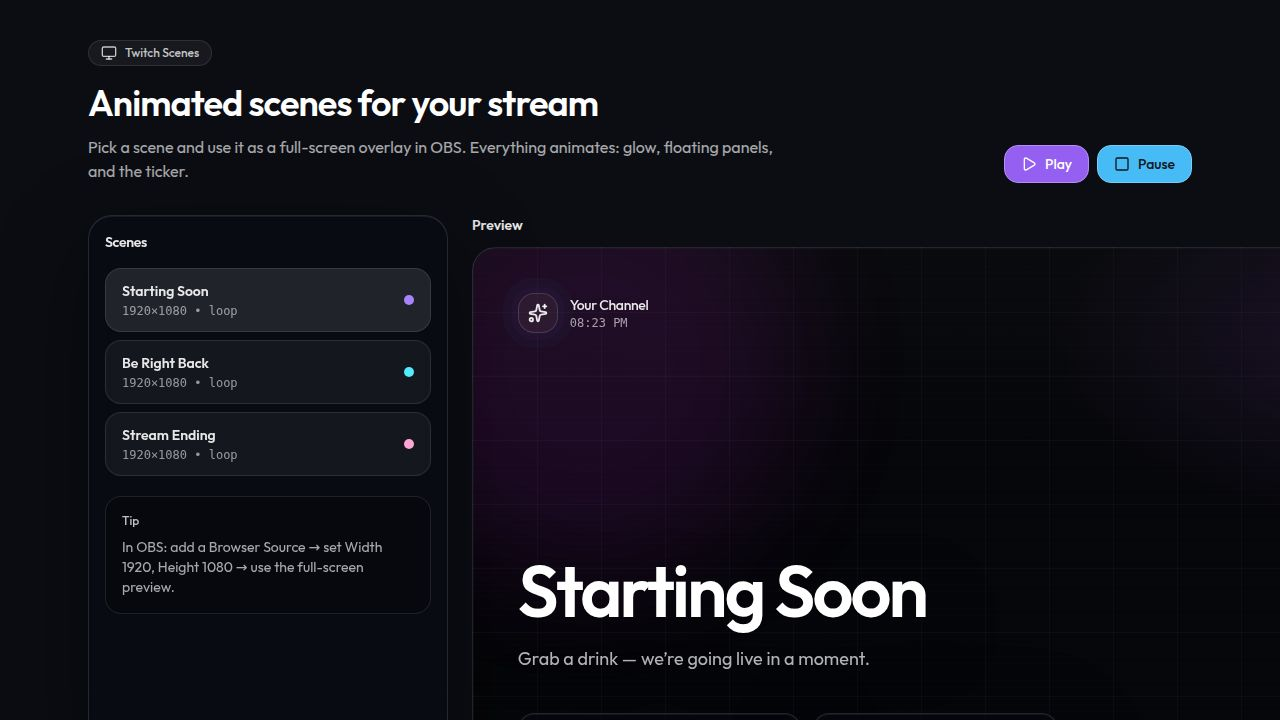
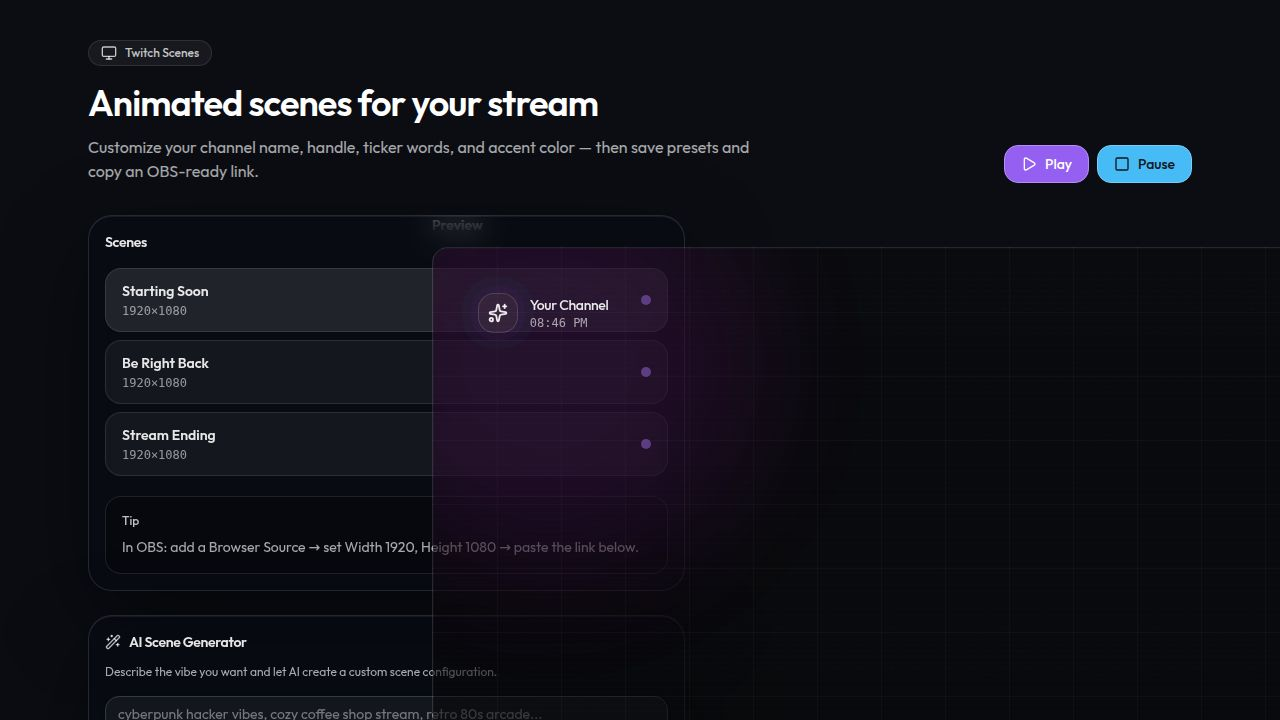
Adjust layout to place scene preview on the right side of the screen
Updates the layout of the Twitch scenes page, moving the scene preview to the right column and adjusting its aspect ratio for better fit within the viewport.

Replit-Commit-Author: Agent
Replit-Commit-Session-Id: 56fff500-5d09-468d-a717-76d6eb35c17c
Replit-Commit-Checkpoint-Type: full_checkpoint
Replit-Commit-Event-Id: 9917d517-9f97-4eb1-bc63-98d4bc2abc6e
Replit-Commit-Screenshot-Url: https://storage.googleapis.com/screenshot-production-us-central1/32f7a202-9c71-4f03-9581-55fa6627d0f5/56fff500-5d09-468d-a717-76d6eb35c17c/VY9jwgc
Replit-Helium-Checkpoint-Created: true

diff --git a/client/src/pages/twitch-scenes.tsx b/client/src/pages/twitch-scenes.tsx
@@ -120,7 +120,7 @@ function SceneCanvas({ sceneId, cfg }: { sceneId: SceneId; cfg: SceneConfig }) {
   return (
     <div
       className={cn(
-        "relative h-[min(72vh,720px)] w-full overflow-hidden rounded-3xl border border-white/10",
+        "relative aspect-video w-full overflow-hidden rounded-2xl border border-white/10",
         "scene-grid"
       )}
       data-testid="canvas-scene"
@@ -465,7 +465,7 @@ export default function TwitchScenes() {
           </div>
         </header>
 
-        <div className="mt-8 grid gap-6 md:grid-cols-[1fr_360px]">
+        <div className="mt-8 grid gap-6 lg:grid-cols-[320px_1fr]">
           <div className="grid gap-6 content-start">
             <div className="glass rounded-3xl p-4">
               <div
@@ -474,7 +474,7 @@ export default function TwitchScenes() {
               >
                 Scenes
               </div>
-              <div className="mt-4 grid grid-cols-3 gap-2">
+              <div className="mt-4 grid gap-2">
                 {scenes.map((s) => {
                   const active = s.id === sceneId;
                   return (
@@ -482,62 +482,31 @@ export default function TwitchScenes() {
                       key={s.id}
                       onClick={() => setSceneId(s.id)}
                       className={cn(
-                        "group flex w-full flex-col items-center justify-center rounded-2xl px-3 py-4 text-center transition",
+                        "group flex w-full items-center justify-between rounded-2xl px-4 py-3 text-left transition",
                         "border border-white/10 bg-white/5 hover:bg-white/7",
                         active && "bg-white/10"
                       )}
                       data-testid={`button-scene-${s.id}`}
                     >
-                      <div className={cn("h-2.5 w-2.5 rounded-full mb-2", accentDotClass(cfg.accent))} />
-                      <div className="text-sm font-semibold text-white/90">{s.label}</div>
+                      <div>
+                        <div className="text-sm font-semibold text-white/90">{s.label}</div>
+                        <div className="mt-0.5 font-mono text-xs text-white/55">1920×1080</div>
+                      </div>
+                      <div className={cn("h-2.5 w-2.5 rounded-full", accentDotClass(cfg.accent))} />
                     </button>
                   );
                 })}
               </div>
-            </div>
 
-            <div>
-              <div className="flex items-center justify-between mb-3">
-                <div className="flex items-center gap-2">
-                  <div className="text-sm font-semibold text-white/90" data-testid="text-preview-title">
-                    Preview
-                  </div>
-                  {aiJustGenerated && (
-                    <motion.div
-                      initial={{ opacity: 0, scale: 0.9 }}
-                      animate={{ opacity: 1, scale: 1 }}
-                      exit={{ opacity: 0 }}
-                      className="rounded-full bg-emerald-500/20 px-2 py-0.5 text-xs font-medium text-emerald-300"
-                    >
-                      AI Generated!
-                    </motion.div>
-                  )}
+              <div className="mt-5 rounded-2xl border border-white/10 bg-black/25 p-4">
+                <div className="text-xs font-medium text-white/75" data-testid="text-tip-title">
+                  Tip
+                </div>
+                <div className="mt-2 text-sm text-white/65" data-testid="text-tip">
+                  In OBS: add a Browser Source → set Width 1920, Height 1080 → paste the link below.
                 </div>
               </div>
-
-              <div
-                className={cn(
-                  "transition-all duration-500",
-                  !playing && "[&_*]:!animate-none",
-                  aiJustGenerated && "ring-2 ring-emerald-500/50 ring-offset-2 ring-offset-background rounded-3xl"
-                )}
-                data-testid="wrap-preview"
-              >
-                <SceneCanvas sceneId={sceneId} cfg={cfg} />
-              </div>
             </div>
-
-            <div className="rounded-2xl border border-white/10 bg-black/25 p-4">
-              <div className="text-xs font-medium text-white/75" data-testid="text-tip-title">
-                Tip
-              </div>
-              <div className="mt-2 text-sm text-white/65" data-testid="text-tip">
-                In OBS: add a Browser Source → set Width 1920, Height 1080 → paste the link below.
-              </div>
-            </div>
-          </div>
-
-          <div className="grid gap-6 content-start">
 
             <div className="glass rounded-3xl p-4" data-testid="panel-ai-generator">
               <div className="flex items-center gap-2">
@@ -909,6 +878,39 @@ export default function TwitchScenes() {
                   })}
                 </div>
               )}
+            </div>
+          </div>
+
+          <div className="grid gap-6 content-start">
+            <div>
+              <div className="flex items-center justify-between mb-3">
+                <div className="flex items-center gap-2">
+                  <div className="text-sm font-semibold text-white/90" data-testid="text-preview-title">
+                    Preview
+                  </div>
+                  {aiJustGenerated && (
+                    <motion.div
+                      initial={{ opacity: 0, scale: 0.9 }}
+                      animate={{ opacity: 1, scale: 1 }}
+                      exit={{ opacity: 0 }}
+                      className="rounded-full bg-emerald-500/20 px-2 py-0.5 text-xs font-medium text-emerald-300"
+                    >
+                      AI Generated!
+                    </motion.div>
+                  )}
+                </div>
+              </div>
+
+              <div
+                className={cn(
+                  "transition-all duration-500",
+                  !playing && "[&_*]:!animate-none",
+                  aiJustGenerated && "ring-2 ring-emerald-500/50 ring-offset-2 ring-offset-background rounded-3xl"
+                )}
+                data-testid="wrap-preview"
+              >
+                <SceneCanvas sceneId={sceneId} cfg={cfg} />
+              </div>
             </div>
           </div>
         </div>
